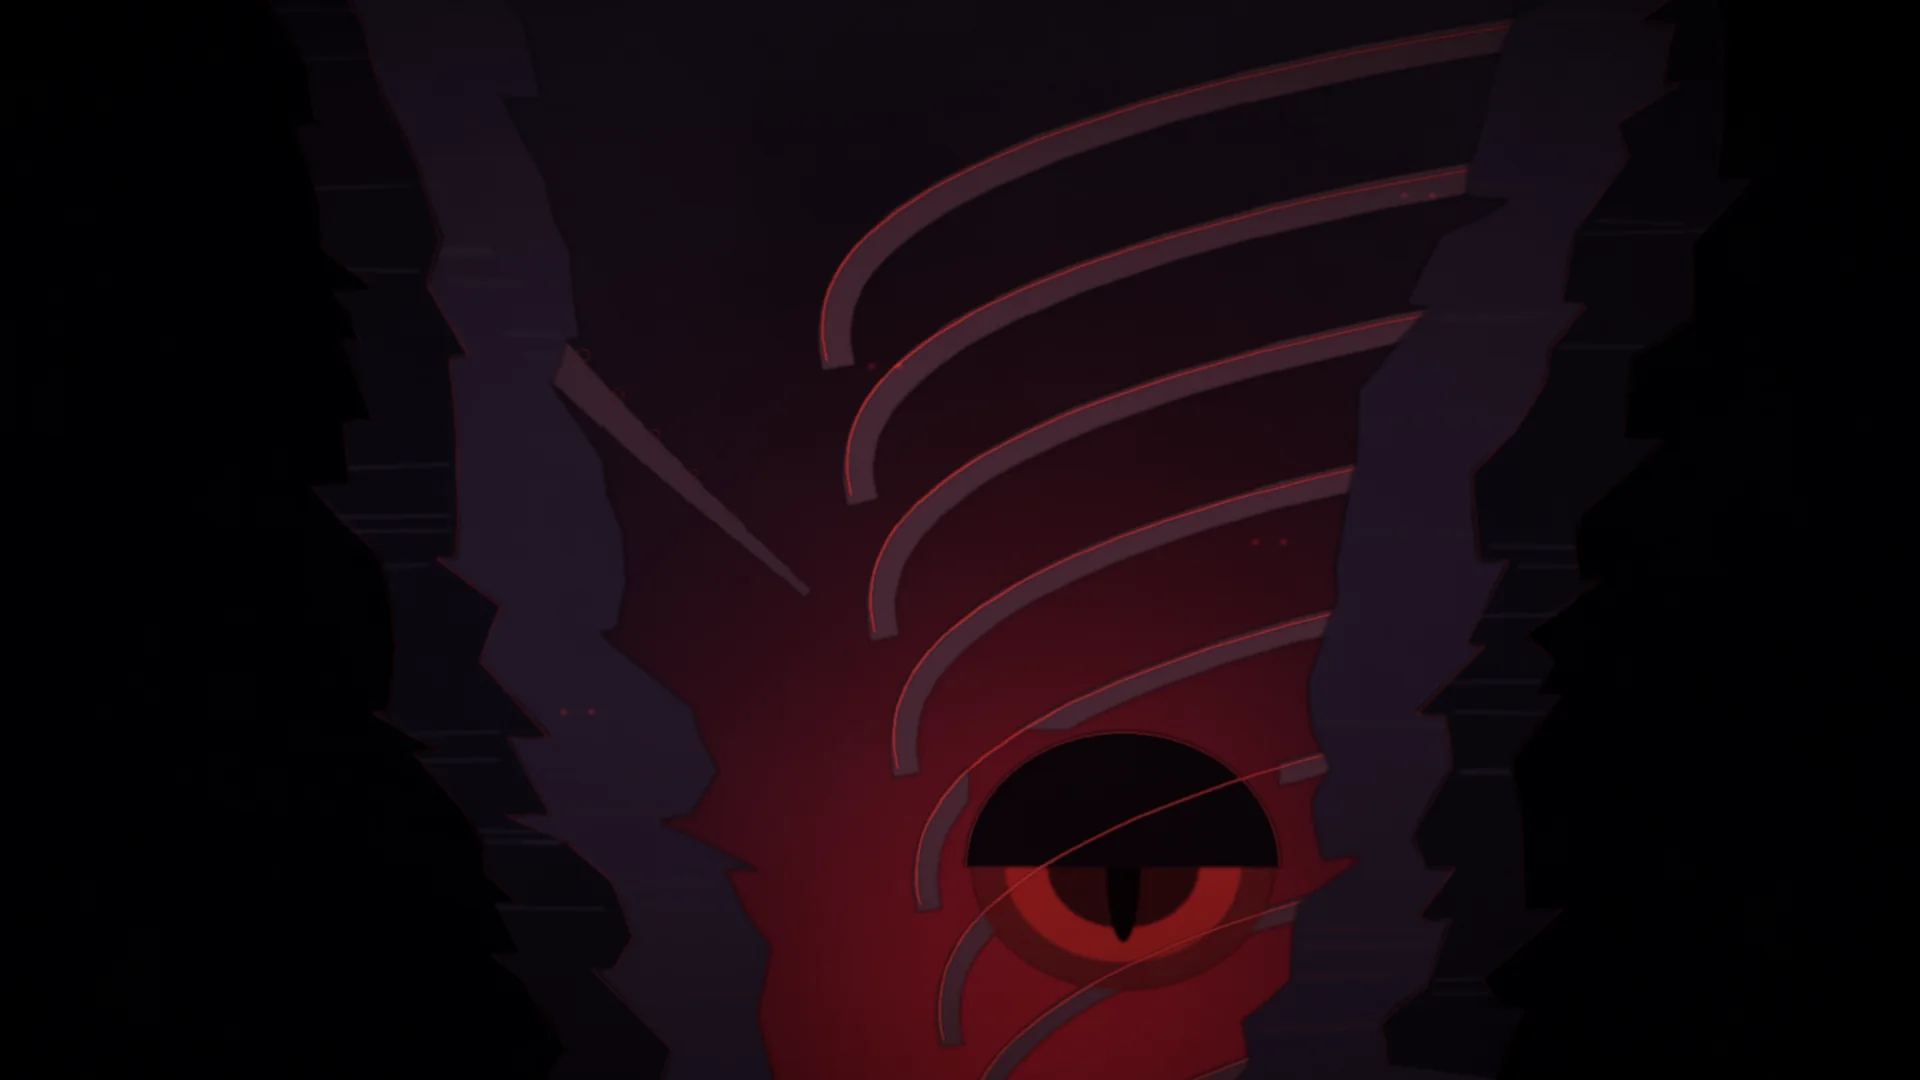
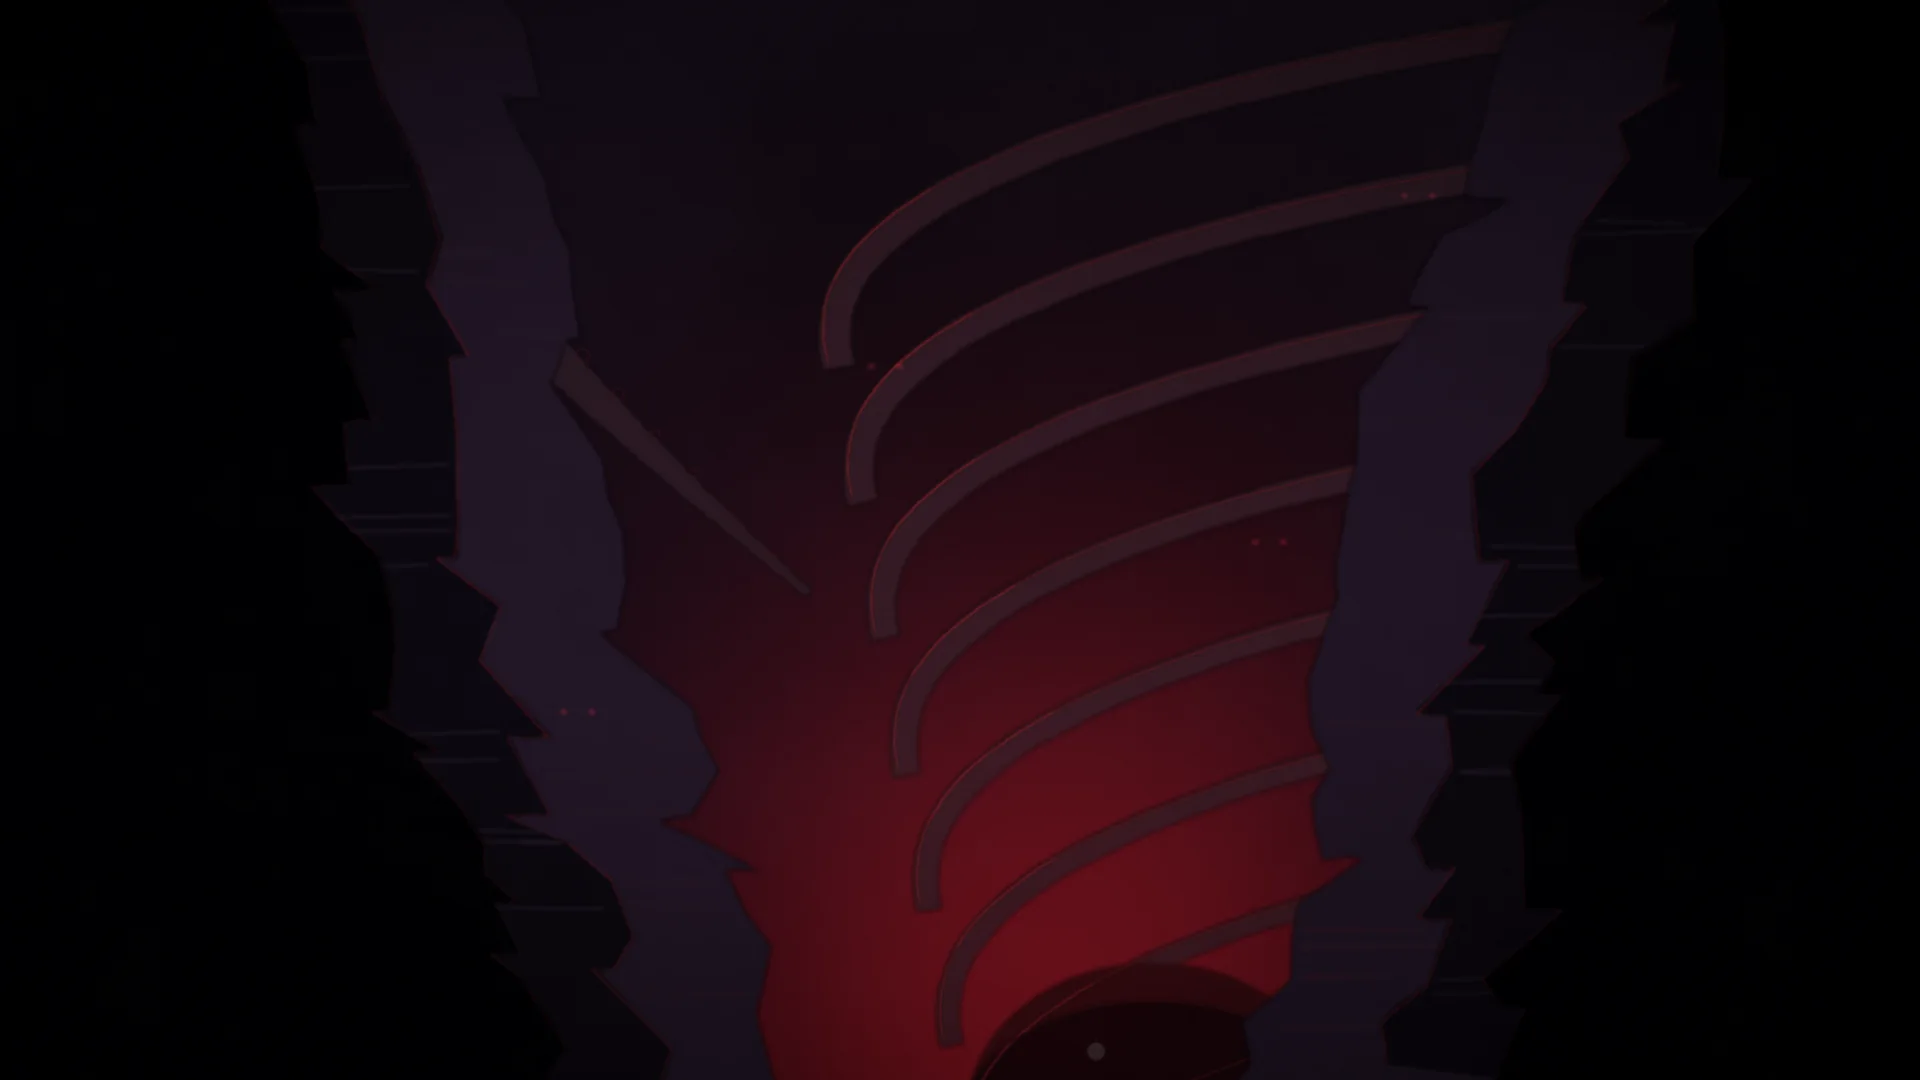
Codex small labels use storybook faces (IM Fell small caps/italic); hadal eye hidden to a glint low in the trench with slow open/gaze (reduced-motion safe), ribs/limbs darker

diff --git a/src/styles/scene.css b/src/styles/scene.css
@@ -611,3 +611,72 @@ body.ambient-motion-off .lamp-glow { animation: none; }
   background: radial-gradient(ellipse 52% 78% at 50% 54%, transparent 28%, rgba(0, 0, 0, 0.78) 72%, rgba(0, 0, 0, 0.96) 100%);
 }
 .scene[data-zone='4'] .paper-wash { opacity: 0.1; }
+
+/* ---- Hadal eye --------------------------------------------------------
+   A huge, near-invisible eye low in the trench. It is drawn dark into the
+   zone-5 painting; this layer adds a slow, barely-there life: a faint iris
+   glow that waxes and wanes (a slow open/close) and a cold glint that drifts
+   a little toward the bell. Hidden outside the hadal zone. Low contrast on
+   purpose: you only catch it after a moment. */
+.hadal-eye {
+  position: absolute;
+  left: 60%;
+  bottom: -20%;
+  width: 46vw;
+  height: 46vw;
+  transform: translateX(-50%);
+  z-index: 1;
+  pointer-events: none;
+  opacity: 0;
+  transition: opacity 3.5s var(--ease-slow);
+  background: radial-gradient(
+    ellipse 50% 42% at 50% 50%,
+    rgba(150, 26, 26, 0.5) 0%,
+    rgba(96, 16, 18, 0.32) 32%,
+    rgba(10, 2, 4, 0) 66%
+  );
+  mix-blend-mode: screen;
+}
+
+.scene[data-zone='4'] .hadal-eye {
+  opacity: 1;
+  animation: hadal-eye-open 26s ease-in-out infinite;
+}
+
+.hadal-eye-glint {
+  position: absolute;
+  left: 38%;
+  top: 30%;
+  width: 1.1vw;
+  height: 1.1vw;
+  border-radius: 50%;
+  background: radial-gradient(circle, rgba(210, 210, 215, 0.85), rgba(210, 210, 215, 0) 70%);
+  filter: blur(0.5px);
+}
+
+.scene[data-zone='4'] .hadal-eye-glint {
+  animation: hadal-gaze 34s ease-in-out infinite;
+}
+
+@keyframes hadal-eye-open {
+  0%, 100% { opacity: 0.35; transform: translateX(-50%) scaleY(0.86); }
+  46% { opacity: 0.35; transform: translateX(-50%) scaleY(0.86); }
+  60% { opacity: 1; transform: translateX(-50%) scaleY(1.06); }
+  74% { opacity: 0.35; transform: translateX(-50%) scaleY(0.86); }
+}
+
+/* Gaze drifts left-and-up, toward where the bell hangs. */
+@keyframes hadal-gaze {
+  0%, 100% { transform: translate(0, 0); }
+  50% { transform: translate(-2.4vw, -1.1vw); }
+}
+
+@media (prefers-reduced-motion: reduce) {
+  .scene[data-zone='4'] .hadal-eye,
+  .scene[data-zone='4'] .hadal-eye-glint { animation: none; }
+  .scene[data-zone='4'] .hadal-eye { opacity: 0.5; }
+}
+
+body.ambient-motion-off .scene[data-zone='4'] .hadal-eye,
+body.ambient-motion-off .scene[data-zone='4'] .hadal-eye-glint { animation: none; }
+body.ambient-motion-off .scene[data-zone='4'] .hadal-eye { opacity: 0.5; }

diff --git a/src/styles/overlays.css b/src/styles/overlays.css
@@ -70,7 +70,9 @@
 
 .card-zh {
   margin-top: 6px;
-  font-size: 13px;
+  font-family: var(--font-display);
+  font-style: italic;
+  font-size: 15px;
   letter-spacing: 0.12em;
   color: #4a4032;
 }
@@ -93,15 +95,18 @@
 }
 
 .card-meta dt {
-  font-size: 9px;
-  letter-spacing: var(--track-label);
-  text-transform: uppercase;
+  font-family: var(--font-display);
+  font-variant: small-caps;
+  font-size: 12px;
+  letter-spacing: 0.14em;
+  text-transform: lowercase;
   color: #6a5c48;
   margin-bottom: 5px;
 }
 
 .card-meta dd {
-  font-size: 13px;
+  font-family: var(--font-display);
+  font-size: 16px;
   color: var(--ink);
 }
 
@@ -142,9 +147,11 @@
   display: flex;
   justify-content: space-between;
   align-items: center;
-  font-size: 10px;
-  letter-spacing: var(--track-label);
-  text-transform: uppercase;
+  font-family: var(--font-display);
+  font-variant: small-caps;
+  font-size: 15px;
+  letter-spacing: 0.14em;
+  text-transform: lowercase;
   color: var(--light-dim);
   margin-bottom: 28px;
 }
@@ -209,13 +216,16 @@
 }
 
 .codex-item-sub {
-  font-size: 9px;
-  letter-spacing: var(--track-label);
-  text-transform: uppercase;
+  font-family: var(--font-display);
+  font-variant: small-caps;
+  font-size: 13px;
+  letter-spacing: 0.1em;
+  text-transform: lowercase;
   color: var(--light-faint);
 }
 
 .codex-item-sub .mono {
+  font-variant: normal;
   letter-spacing: 0.05em;
   text-transform: none;
 }

diff --git a/index.html b/index.html
@@ -198,6 +198,12 @@
       <!-- Zone-entry light/colour shift (animated by CSS, zone set from preview.ts) -->
       <div id="zone-shift" class="zone-shift" aria-hidden="true"></div>
 
+      <!-- Hadal only: a near-hidden eye low in the trench. Only a glint of iris
+           reads at first; it opens a sliver and shifts its gaze very slowly. -->
+      <div class="hadal-eye" aria-hidden="true">
+        <span class="hadal-eye-glint"></span>
+      </div>
+
       <!-- Zone title: fades in briefly when a new zone is entered. -->
       <div id="zone-title" class="zone-title" aria-hidden="true">
         <span class="zone-title-chapter" id="zone-title-chapter"></span>

diff --git a/art/render_deep_zones.py b/art/render_deep_zones.py
@@ -322,33 +322,38 @@ def zone5():
         rx, ry = W * (0.58 - 0.012 * k), H * 0.36
         pts = [(cx - rx * math.cos(a) * (1 + 0.05 * math.sin(a * 3)), cy - ry * math.sin(a)) for a in np.linspace(0.05, 1.45, 46)]
         wd = 34 - 2 * k
-        bd.line(pts, fill=(70, 40, 52, 255), width=wd, joint="curve")
-        rd.line([(x - wd * 0.35, y - wd * 0.2) for x, y in pts], fill=(190, 46, 50, 200), width=4, joint="curve")
+        bd.line(pts, fill=(54, 30, 40, 255), width=wd, joint="curve")
+        rd.line([(x - wd * 0.35, y - wd * 0.2) for x, y in pts], fill=(150, 36, 40, 150), width=3, joint="curve")
     spine = [(W * (0.97 - 0.012 * math.sin(i / 4.0)), H * i / 40) for i in range(41)]
-    bd.line(spine, fill=(62, 36, 46, 255), width=58)
-    rd.line([(x - 22, y) for x, y in spine], fill=(140, 34, 38, 120), width=3)
+    bd.line(spine, fill=(48, 28, 36, 255), width=58)
+    rd.line([(x - 22, y) for x, y in spine], fill=(120, 30, 34, 90), width=3)
     # a limb: a tentacle sagging down the left side, suckers along its length
     limb = [(W * 0.14, -30)] + [(W * (0.16 + 0.26 * (i / 30) ** 1.4), H * (0.55 * (i / 30))) for i in range(1, 31)]
     for i in range(len(limb) - 1):
         f = i / (len(limb) - 1)
-        bd.line([limb[i], limb[i + 1]], fill=(58, 34, 46, 255), width=int(78 * (1 - f) + 10), joint="curve")
+        bd.line([limb[i], limb[i + 1]], fill=(46, 28, 38, 255), width=int(78 * (1 - f) + 10), joint="curve")
         if i % 2 == 0:
             sx, sy = limb[i][0] + (60 * (1 - f) + 6), limb[i][1]
             r = 11 * (1 - f) + 2.5
-            rd.ellipse((sx - r, sy - r, sx + r, sy + r), outline=(150, 36, 40, 150), width=2)
-    # the eye: half-lidded, deep in the middle distance
-    ex, ey, er = W * 0.585, H * 0.80, 150
-    for ring, col in ((er, (84, 18, 22, 255)), (er * 0.78, (150, 28, 28, 255)), (er * 0.5, (40, 8, 12, 255))):
+            rd.ellipse((sx - r, sy - r, sx + r, sy + r), outline=(130, 32, 36, 120), width=2)
+    # the eye: low in the trench, mostly below the frame under a heavy lid, so
+    # only a sliver of iris and a single reflective glint read at first. Drawn
+    # very dark; the slow open/close + gaze shift live in the CSS (.hadal-eye)
+    # over this painting, not baked in.
+    ex, ey, er = W * 0.60, H * 1.03, 184
+    for ring, col in ((er, (40, 10, 14, 255)), (er * 0.76, (74, 16, 18, 255)), (er * 0.46, (22, 6, 10, 255))):
         bd.ellipse((ex - ring, ey - ring * 0.82, ex + ring, ey + ring * 0.82), fill=col)
-    bd.ellipse((ex - 16, ey - er * 0.5, ex + 16, ey + er * 0.5), fill=(2, 0, 2, 255))   # the slit
-    bd.rectangle((ex - er - 4, ey - er * 0.9, ex + er + 4, ey - er * 0.12), fill=(0, 0, 0, 0))
-    bd.pieslice((ex - er * 1.05, ey - er * 0.9, ex + er * 1.05, ey + er * 0.9), 180, 360, fill=(7, 4, 8, 255))  # the upper lid
-    rd.arc((ex - er * 1.05, ey - er * 0.9, ex + er * 1.05, ey + er * 0.9), 180, 360, fill=(150, 36, 40, 160), width=3)
-    big = big.filter(ImageFilter.GaussianBlur(1.6))
+    bd.ellipse((ex - 15, ey - er * 0.5, ex + 15, ey + er * 0.5), fill=(2, 0, 2, 255))   # the slit
+    # a single cold glint on the wet iris: the one thing the eye is caught by
+    rd.ellipse((ex - er * 0.30 - 9, ey - er * 0.34 - 9, ex - er * 0.30 + 9, ey - er * 0.34 + 9), fill=(150, 150, 150, 70))
+    # the heavy upper lid sits low, covering most of the eye
+    bd.pieslice((ex - er * 1.08, ey - er * 0.62, ex + er * 1.08, ey + er * 0.9), 180, 360, fill=(6, 3, 7, 255))
+    rd.arc((ex - er * 1.08, ey - er * 0.62, ex + er * 1.08, ey + er * 0.9), 188, 352, fill=(120, 28, 32, 90), width=2)
+    big = big.filter(ImageFilter.GaussianBlur(2.2))
     rim = rim.filter(ImageFilter.GaussianBlur(1.0))
     # keep the huge things dim: seen, not lit
     ba = np.asarray(big, np.float32)
-    ba[..., 3] *= 0.95
+    ba[..., 3] *= 0.8
     arr = over(arr, Image.fromarray(ba.astype("uint8")))
     arr = over(arr, rim)
 
